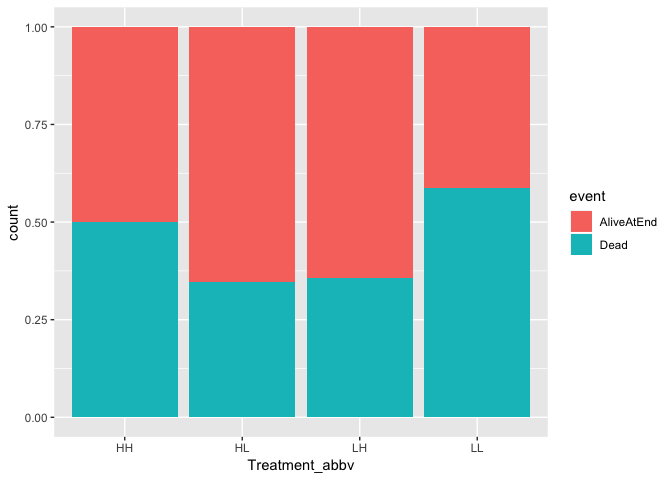
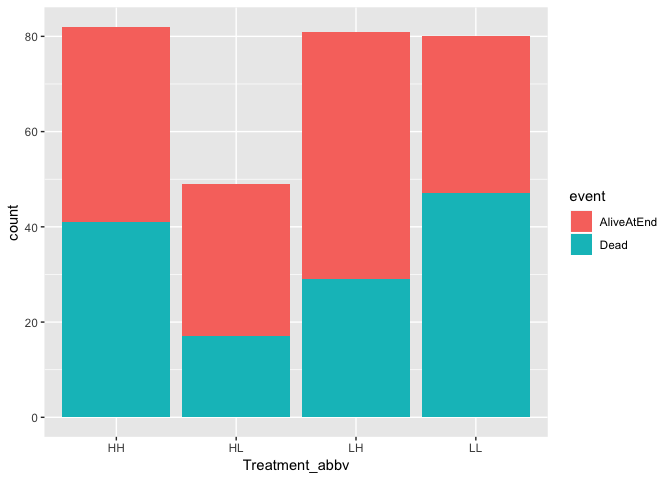
updated survival plots and proportions test

diff --git a/survival/2016_pteropod_survival_proportions_analysis.md b/survival/2016_pteropod_survival_proportions_analysis.md
@@ -5,19 +5,8 @@ Shelly Trigg
 
 Load libraries
 
-``` r
-library(readxl)
-library(tidyr)
-library(ggplot2)
-library(FSA)
-```
-
     ## ## FSA v0.8.22. See citation('FSA') if used in publication.
     ## ## Run fishR() for related website and fishR('IFAR') for related book.
-
-``` r
-library(survminer)
-```
 
     ## Loading required package: ggpubr
 
@@ -30,11 +19,6 @@ library(survminer)
     ## 
     ##     extract
 
-``` r
-library(survival)
-library(lme4)
-```
-
     ## Loading required package: Matrix
 
     ## 
@@ -43,10 +27,6 @@ library(lme4)
     ## The following object is masked from 'package:tidyr':
     ## 
     ##     expand
-
-``` r
-library(lmerTest)
-```
 
     ## 
     ## Attaching package: 'lmerTest'
@@ -61,147 +41,22 @@ library(lmerTest)
 
 Read in data
 
-``` r
-#survival data
-d <- read_xlsx("~/Documents/GitHub/pteropod_pHxDO_metabolomics/survival/pteropod_pHxDO2016_masterdatasheet.xlsx", sheet = "sample IDs living", skip = 2)
-```
-
     ## New names:
     ## * `` -> `..1`
     ## * `` -> `..2`
     ## * `` -> `..15`
 
-``` r
-#treatment data
-treatments <- read.csv("~/Documents/GitHub/Seawater-Chemistry-Analysis/2016-17_PteropodExp_WaterChem/PteropodWaterChem/Treatments.csv", stringsAsFactors = FALSE)
-treatments$MOATS <- paste0("M",treatments$MOATS)
-```
-
 Format survival data
-
-``` r
-#fix column names which are dates
-weird_date <- as.numeric(colnames(d)[3:11], quote = FALSE)
-good_dates <- as.Date(weird_date, origin = '1899-12-30')
-
-#convert d to data frame
-d <- data.frame(d)
-
-#convert date column names to reformated date strings
-colnames(d)[3:11] <- as.character(good_dates)
-
-#rename the first two columns
-colnames(d)[1:2] <- c("MOATS", "Jar")
-
-#remove rows containing repetitive date info
-d <- d[-grep("^42",d$`2016-11-22`),]
-
-#remove rows containing only NAs
-d <- d[which(!is.na(d$`2016-11-22`)),]
-
-#add column for first day everything was put on MOATS
-d$`2016-11-21` <- "L1"
-
-#reorder columns so dates are all next to each other
-d <- d[,c(1,2,16,3:15)]
-
-#remove MOATS 2 and 9 which had problems
-d <- d[-grep("M9", d$MOATS),]
-
-
-#crab_id column
-d$crabID <- paste(d$MOATS, d$Jar, sep = "_")
-
-#reformat date column
-STACKED_d <- tidyr::gather(d, date, status, 3:12)
-
-#make event column
-
-for(i in 1:length(STACKED_d$status)){
-  if(STACKED_d$status[i] == "L1"){
-    STACKED_d$event[i] <- "start"
-  }
-  if(STACKED_d$status[i] == "D"){
-    STACKED_d$event[i] <- "Dead"
-  }
-  if(STACKED_d$status[i]== "2L"){
-    STACKED_d$event[i] <- "unknown"
-  }
-  if(STACKED_d$status[i] == "M"){
-    STACKED_d$event[i] <- "unknown"
-  }
-  if(STACKED_d$status[i] == "LL"){
-    STACKED_d$event[i] <- "unknown"
-  }
- if(STACKED_d$status[i] == "L"){
-    STACKED_d$event[i] <- "NA"
-  }
-  if(STACKED_d$status[i] == "----"){
-    STACKED_d$event[i] <- "NA"
-  }
-}
-```
 
 remove samples with 2L, M, or LL (2L = 2 animals in one jar (misplacement), M = missing, LL = live but lost..not sure what that actually means)
 
-``` r
-bad_ptero_list <- unique(STACKED_d[grep("unknown", STACKED_d$event), "crabID"])
-
-STACKED_d <- STACKED_d[which(!(STACKED_d$crabID %in% bad_ptero_list)),]
-
-#remove columns with no event ("--")
-
-STACKED_d <- STACKED_d[-grep("----", STACKED_d$status),]
-```
-
 Add Duration column
-
-``` r
-#assign durations
-STACKED_d <- STACKED_d[order(STACKED_d$crabID),]
-durCounter <- 0
-for(i in 1:length(STACKED_d$event)){
-  if(STACKED_d$event[i] == "start"){
-    durCounter <- 0
-  }
-  STACKED_d$duration[i] <- durCounter
-  durCounter <- durCounter + 1
-}
-```
 
 Add survival column
 
-``` r
-STACKED_d$isDead <- NA
-lastDayObs <- "2016-11-30"
-
-for(i in 1:length(STACKED_d$event)){
-  if(STACKED_d$event[i] == "Dead"){
-    STACKED_d$isDead[i]  <- 1
-  }
-  if(STACKED_d$status[i] == "L" && STACKED_d$date[i] == lastDayObs){
-    STACKED_d$isDead[i] <- 0
-    STACKED_d$event[i] <- "AliveAtEnd"
-  }
-
-}
-```
-
 merge treatment data
 
-``` r
-STACKED_d <- merge(STACKED_d, treatments, by = "MOATS")
-```
-
-**survival analysis**
-
-``` r
-dSub <- STACKED_d[!is.na(STACKED_d$isDead),]
-surv <- Surv(time = dSub$duration, event = dSub$isDead, type = "right")
-ggsurvplot(survfit(surv ~ Target_Treatment, dSub), risk.table = FALSE, pval = FALSE, conf.int = FALSE,font.main = 16, font.x =  16, font.y = 16, font.tickslab = 16, font.legend = 10, break.time.by = 1,legend = c(0.4, 0.4), legend.title = "Treatment", title = "pHxDO effect on survival", xlab = "Time (Days)", xlim = c(0,9), ylim = c(0.3,1)) 
-```
-
-![](2016_pteropod_survival_proportions_analysis_files/figure-markdown_github/unnamed-chunk-5-1.png)
+**survival analysis** ![](2016_pteropod_survival_proportions_analysis_files/figure-markdown_github/unnamed-chunk-5-1.png)
 
 **treatment effect on duration to death**
 
@@ -264,48 +119,15 @@ summary(fitME)
     ## Trtmnt_bbLH -0.667  0.449       
     ## Trtmnt_bbLL -0.723  0.487  0.482
 
-**plot survival proportions for treatments**
+**plot survival proportions for treatments** ![](2016_pteropod_survival_proportions_analysis_files/figure-markdown_github/unnamed-chunk-9-1.png)
 
-``` r
-ggplot(dSub) + geom_bar(aes(Treatment_abbv, fill = event))
-```
+**plot survival proportions (fraction) for treatments** ![](2016_pteropod_survival_proportions_analysis_files/figure-markdown_github/unnamed-chunk-10-1.png)
 
-![](2016_pteropod_survival_proportions_analysis_files/figure-markdown_github/unnamed-chunk-9-1.png)
-
-**plot survival proportions (fraction) for treatments**
-
-``` r
-ggplot(dSub) + geom_bar(aes(Treatment_abbv, fill = event), position = "fill")
-```
-
-![](2016_pteropod_survival_proportions_analysis_files/figure-markdown_github/unnamed-chunk-10-1.png)
-
-**plot survival proportions for MOATS**
-
-``` r
-ggplot(dSub) + geom_bar(aes(MOATS, fill = event), position = "fill") + facet_wrap(~Treatment_abbv)
-```
-
-![](2016_pteropod_survival_proportions_analysis_files/figure-markdown_github/unnamed-chunk-11-1.png)
+**plot survival proportions for MOATS** ![](2016_pteropod_survival_proportions_analysis_files/figure-markdown_github/unnamed-chunk-11-1.png)
 
 **calculate chi square and p values for proportions**
 
 ``` r
-comparisons <- c("HH_HL", "HH_LH", "HH_LL", "HL_LH", "HL_LL", "LH_LL")
-surv_stats <- data.frame()
-for(i in 1:length(comparisons)){
-  x <- c(length(dSub[which(dSub$isDead == 0 & dSub$Treatment_abbv == substr(comparisons[i], 1,2)),"isDead"]), length(dSub[which(dSub$isDead == 0 & dSub$Treatment_abbv == substr(comparisons[i], 4,5)),"isDead"]))
-  n <- c(length(dSub[which(dSub$Treatment_abbv == substr(comparisons[i], 1,2)),"isDead"]), length(dSub[which(dSub$Treatment_abbv == substr(comparisons[i], 4,5)),"isDead"]))
-  chi <- prop.test(x = x, n = n, correct = FALSE)
-  row <- data.frame(t(data.frame(c(comparisons[i], chi$statistic, chi$p.value))))
-  colnames(row) <- c("Comparison", "ChiSq", "P.value")
-  surv_stats <- rbind(surv_stats, row)
-}
-rownames(surv_stats) = NULL
-
-surv_stats$P.value_bonferroni <- p.adjust(surv_stats$P.value, method = "bonferroni")
-
-library(knitr)
 kable(surv_stats, caption = "Treatment effect on survival proportions test table")
 ```
 
@@ -321,15 +143,7 @@ kable(surv_stats, caption = "Treatment effect on survival proportions test table
 EXCLUDING MOATS 2
 -----------------
 
-**survival analysis**
-
-``` r
-dSub <- STACKED_d[which(!is.na(STACKED_d$isDead) & STACKED_d$MOATS != "M2"),]
-surv <- Surv(time = dSub$duration, event = dSub$isDead, type = "right")
-ggsurvplot(survfit(surv ~ Target_Treatment, dSub), risk.table = FALSE, pval = FALSE, conf.int = FALSE,font.main = 16, font.x =  16, font.y = 16, font.tickslab = 16, font.legend = 10, break.time.by = 1,legend = c(0.4, 0.4), legend.title = "Treatment", title = "pHxDO effect on survival", xlab = "Time (Days)", xlim = c(0,9), ylim = c(0.3,1)) 
-```
-
-![](2016_pteropod_survival_proportions_analysis_files/figure-markdown_github/surv_analysis_noM2-1.png)
+**survival analysis** ![](2016_pteropod_survival_proportions_analysis_files/figure-markdown_github/surv_analysis_noM2-1.png)
 
 **treatment effect on duration to death (without M2)**
 
@@ -392,48 +206,15 @@ summary(fitME)
     ## Trtmnt_bbLH -0.651  0.358       
     ## Trtmnt_bbLL -0.729  0.401  0.474
 
-**plot survival proportions for treatments (without M2)**
+**plot survival proportions for treatments (without M2)** ![](2016_pteropod_survival_proportions_analysis_files/figure-markdown_github/unnamed-chunk-17-1.png)
 
-``` r
-ggplot(dSub) + geom_bar(aes(Treatment_abbv, fill = event))
-```
+**plot survival proportions (as fractions) for treatments (without M2)** ![](2016_pteropod_survival_proportions_analysis_files/figure-markdown_github/unnamed-chunk-18-1.png)
 
-![](2016_pteropod_survival_proportions_analysis_files/figure-markdown_github/unnamed-chunk-16-1.png)
-
-**plot survival proportions (as fractions) for treatments (without M2)**
-
-``` r
-ggplot(dSub) + geom_bar(aes(Treatment_abbv, fill = event), position = "fill")
-```
-
-![](2016_pteropod_survival_proportions_analysis_files/figure-markdown_github/unnamed-chunk-17-1.png)
-
-**plot survival proportions for MOATS (without M2)**
-
-``` r
-ggplot(dSub) + geom_bar(aes(MOATS, fill = event), position = "fill") + facet_wrap(~Treatment_abbv)
-```
-
-![](2016_pteropod_survival_proportions_analysis_files/figure-markdown_github/unnamed-chunk-18-1.png)
+**plot survival proportions for MOATS (without M2)** ![](2016_pteropod_survival_proportions_analysis_files/figure-markdown_github/unnamed-chunk-19-1.png)
 
 **calculate chi square and p values for proportions (without M2)**
 
 ``` r
-comparisons <- c("HH_HL", "HH_LH", "HH_LL", "HL_LH", "HL_LL", "LH_LL")
-surv_stats <- data.frame()
-for(i in 1:length(comparisons)){
-  x <- c(length(dSub[which(dSub$isDead == 0 & dSub$Treatment_abbv == substr(comparisons[i], 1,2)),"isDead"]), length(dSub[which(dSub$isDead == 0 & dSub$Treatment_abbv == substr(comparisons[i], 4,5)),"isDead"]))
-  n <- c(length(dSub[which(dSub$Treatment_abbv == substr(comparisons[i], 1,2)),"isDead"]), length(dSub[which(dSub$Treatment_abbv == substr(comparisons[i], 4,5)),"isDead"]))
-  chi <- prop.test(x = x, n = n, correct = FALSE)
-  row <- data.frame(t(data.frame(c(comparisons[i], chi$statistic, chi$p.value))))
-  colnames(row) <- c("Comparison", "ChiSq", "P.value")
-  surv_stats <- rbind(surv_stats, row)
-}
-rownames(surv_stats) = NULL
-
-surv_stats$P.value_bonferroni <- p.adjust(surv_stats$P.value, method = "bonferroni")
-
-library(knitr)
 kable(surv_stats, caption = "Treatment effect on survival proportions test table (without M2)")
 ```
 
